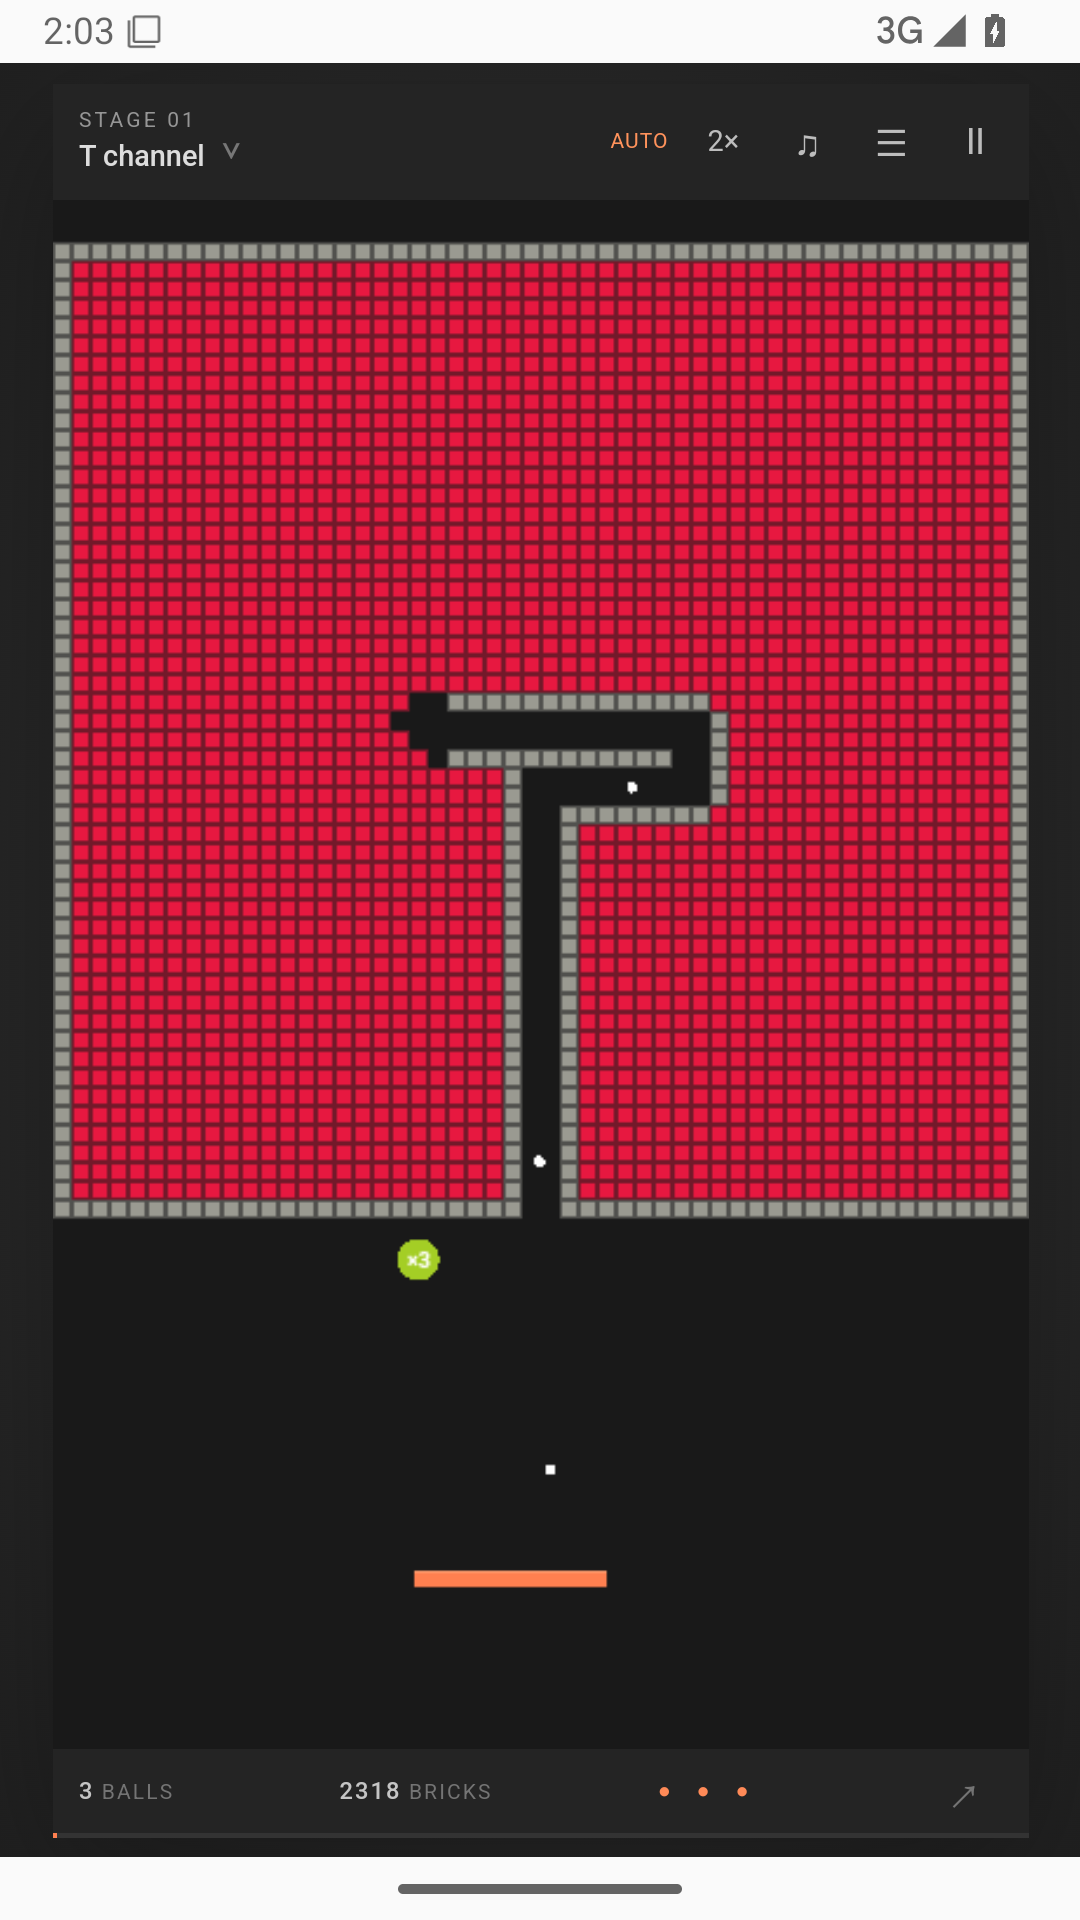
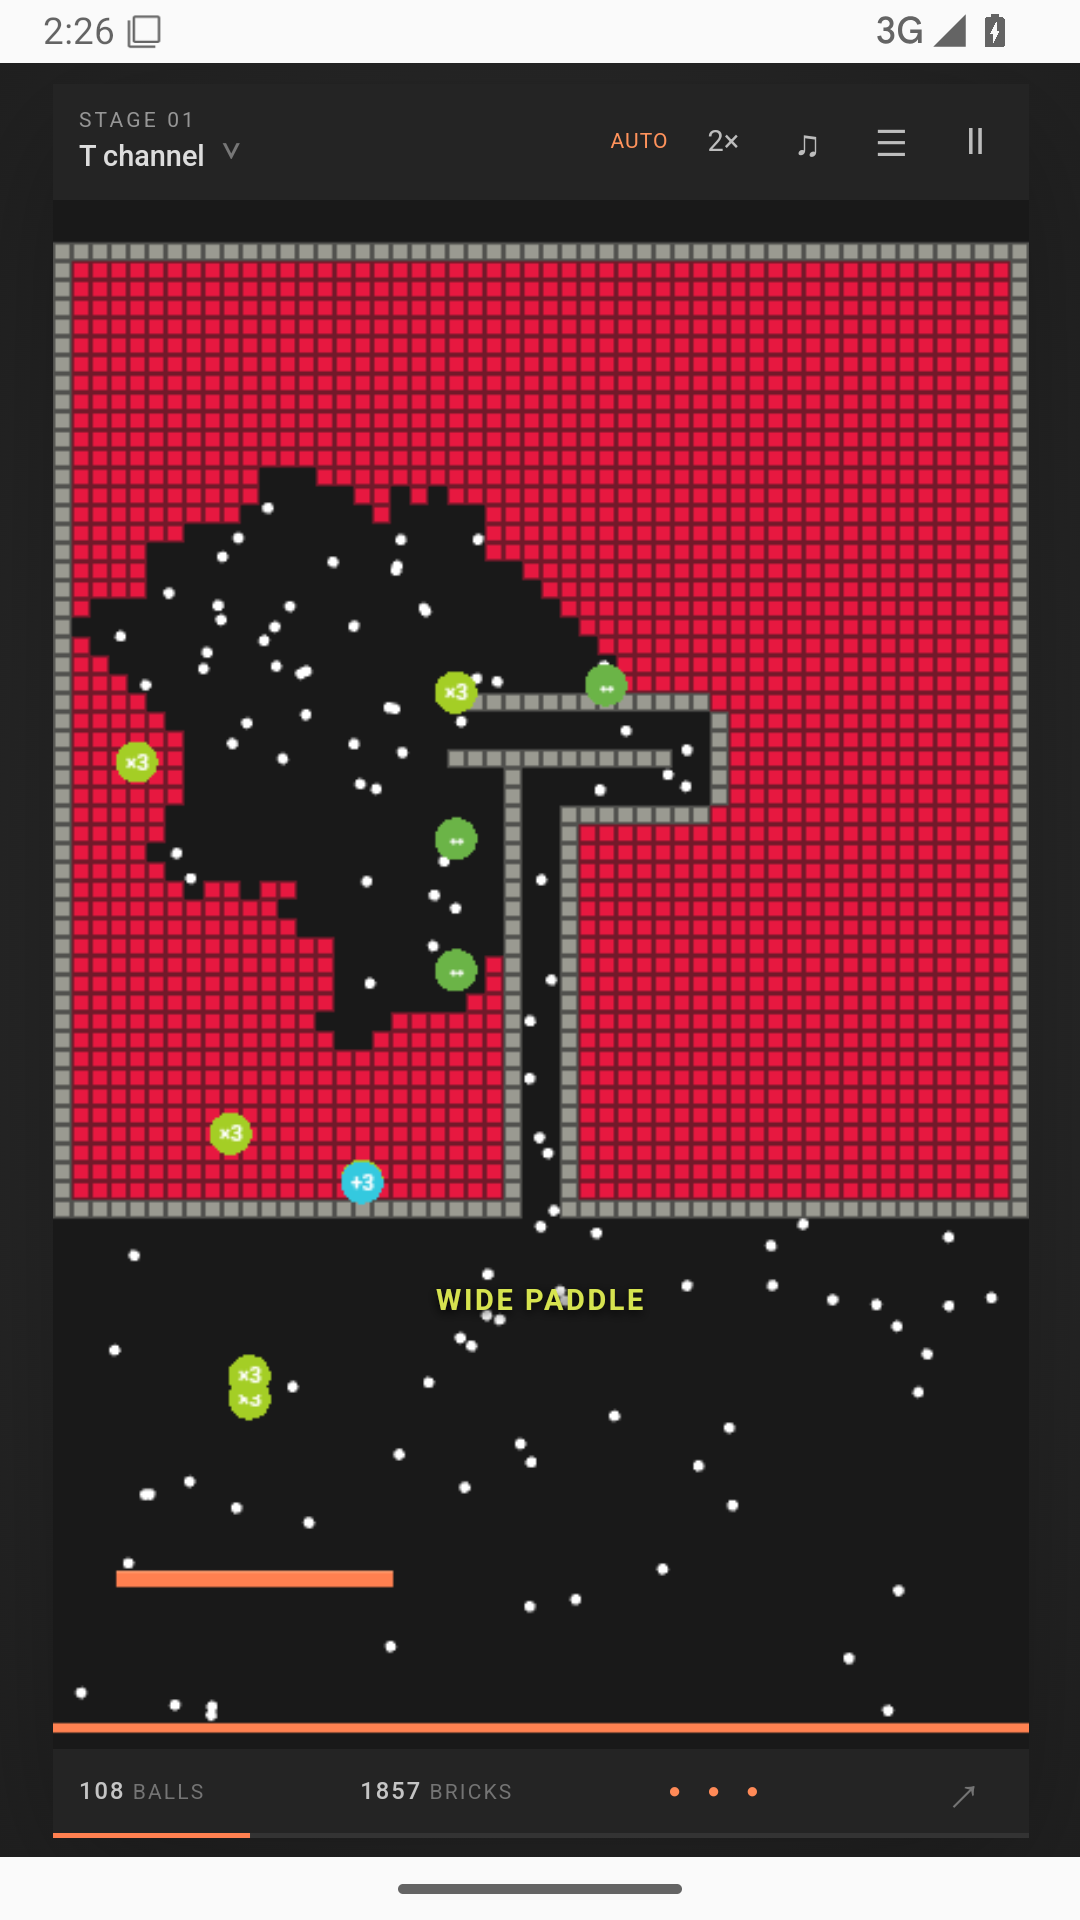
Publish verified mobile download and QA documentation

diff --git a/docs/RED_TEAM.md b/docs/RED_TEAM.md
@@ -39,8 +39,10 @@ Native build outcomes are recorded in GitHub Actions and the release notes. A bu
 
 ## Native validation · 21 October 2026
 
-Both Android and iOS compilation jobs passed in [run 39530188773](https://github.com/speedinno/brick-breaker/actions/runs/39530188773), building application commit `a20be624496d49799c464808d15dc690f79b78e4`. The APK, simulator app, and unsigned device archive were inspected: their index, engine, controller, styles, and manifest match the current game source after newline normalization.
+Both Android and iOS compilation jobs passed in [run 39532447345](https://github.com/speedinno/brick-breaker/actions/runs/39532447345), building application commit `8fe6bab067166c106c8fbe9e5d5b1f06f5843a52`. The APK, simulator app, and unsigned device archive were inspected: their index, engine, controller, styles, and manifest match the current game source after newline normalization. The iOS store icon uses RGB without an alpha channel; a CI guard verifies its encoding.
 
-The Android API 35 emulator test used the exact downloaded APK with Wi-Fi and mobile data disabled. It verified native Capacitor execution, a painted dense field with 2,328 initial breakable cells, AUTO launch, brick count falling to 2,318 with three balls after 20 seconds, pause/resume, and process relaunch. No uncaught JavaScript exception or native fatal exception was reported. The screenshot was visually inspected for field rendering and phone layout. This is a startup and gameplay smoke test, not a low-end device performance benchmark.
+The Android API 35 emulator test used the exact downloaded APK with Wi-Fi and mobile data disabled. It verified native Capacitor execution, a painted dense field with 2,328 initial breakable cells, AUTO launch, brick count falling to 1,990 with 108 balls after 20 seconds, pause/resume, and process relaunch. No uncaught JavaScript exception or native fatal exception was reported. The screenshot was visually inspected for field rendering and phone layout. This is a startup and gameplay smoke test, not a low-end device performance benchmark.
 
-The exact iPhone Simulator app was installed, launched, terminated and relaunched. Screenshots show the dense T field, game controls, safe-area layout, and the saved-stage Continue prompt after relaunch. Both screenshots were visually inspected. An initial CI run hung after producing its screenshots and was stopped; that runner issue is not represented as a passed workflow. The workflow now separates startup, launch, relaunch and simulator shutdown with explicit time limits. Native touch gameplay on a physical iPhone remains unverified.
+The iPhone Simulator app was installed, launched, terminated and relaunched. Screenshots show the dense T field, game controls, safe-area layout, and the saved-stage Continue prompt after relaunch. Both screenshots were visually inspected. The workflow separates startup, launch, relaunch and simulator shutdown with explicit time limits. Native touch gameplay on a physical iPhone remains unverified.
+
+Both final native launch jobs passed in [run 39532730822](https://github.com/speedinno/brick-breaker/actions/runs/39532730822), using the artifacts from the successful build above. The screenshots in `docs/native/` come from this run. Later release documentation commits do not change application files.

diff --git a/docs/MOBILE.md b/docs/MOBILE.md
@@ -10,6 +10,7 @@ Project: `android/`. Bundle ID: `com.speedinno.brickbreaker`. Minimum API 24; ta
 npm ci
 npx cap sync android
 cd android
+chmod +x gradlew
 ./gradlew assembleDebug bundleRelease
 ```
 
@@ -35,8 +36,10 @@ CI produces an unsigned `.xcarchive` for later signing plus a Simulator `.app`. 
 
 `.github/workflows/mobile.yml` runs Android on Ubuntu and iOS on macOS. Download the **Brick-Breaker-Android** and **Brick-Breaker-iOS** artifacts from a successful run. Failed or queued jobs are not completed builds. The workflow does not contain signing credentials or automatically submit either app to a store.
 
-The approved public source/build mirror is https://github.com/speedinno/brick-breaker. The primary organization repository remains private. Both native jobs passed in [build 39530188773](https://github.com/speedinno/brick-breaker/actions/runs/39530188773), using game source commit `a20be624496d49799c464808d15dc690f79b78e4`.
+The approved public source/build mirror is https://github.com/speedinno/brick-breaker. The primary organization repository remains private. Both native jobs passed in [build 39532447345](https://github.com/speedinno/brick-breaker/actions/runs/39532447345), using application source commit `8fe6bab067166c106c8fbe9e5d5b1f06f5843a52`. The iOS store icon is exported as RGB without an alpha channel, and CI checks that encoding before compilation.
 
 `.github/workflows/native-smoke.yml` accepts a successful build run ID and tests those exact artifacts, without rebuilding them. Android disables Wi-Fi and cellular data, launches the bundled WebView, checks native execution and painted bricks, starts AUTO, verifies brick destruction and pause/resume, and relaunches the process. iPhone Simulator launches and relaunches the compiled app and captures screenshots for visual inspection. This checks packaging and startup; it does not replace physical-device playtesting.
+
+The final Android and iPhone launch checks both passed in [run 39532730822](https://github.com/speedinno/brick-breaker/actions/runs/39532730822). Download the versioned packages and full source from [release 2.0.0](https://github.com/speedinno/brick-breaker/releases/tag/v2.0.0).
 
 Before store release, verify real-device input, app switching, sound, safe-area layout, Android Back, offline operation, large-swarm performance, and save restoration. No telemetry is collected to replace that testing.

diff --git a/README.md b/README.md
@@ -8,6 +8,8 @@ Public browser version: https://speedinno.github.io/brick-breaker/
 
 Public source and native build mirror: https://github.com/speedinno/brick-breaker
 
+Android test APK and iOS build downloads: https://github.com/speedinno/brick-breaker/releases/tag/v2.0.0
+
 ## What changed in v2
 
 The earlier Prism Rush interpretation was replaced. This version uses a dense 52 × 52 field; twelve reference-style T / H / M / W / sword / needle / bent / nested / heart / stepped motifs; indestructible gray maze walls; and earned, falling multiplication pickups. There is no automatic opening fireball, random missing-brick noise, bomb grid, Pulse button, or large marketing layout.
